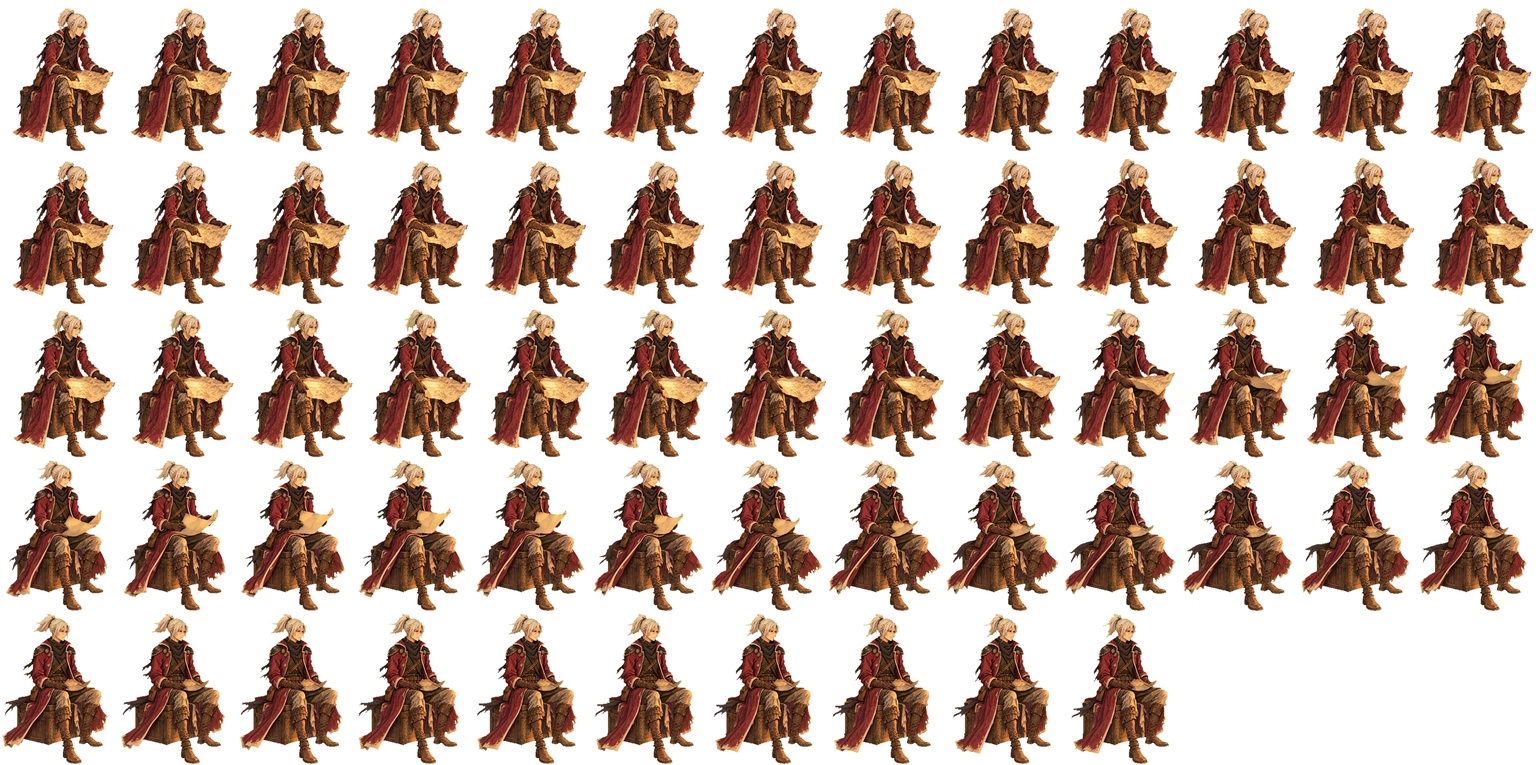
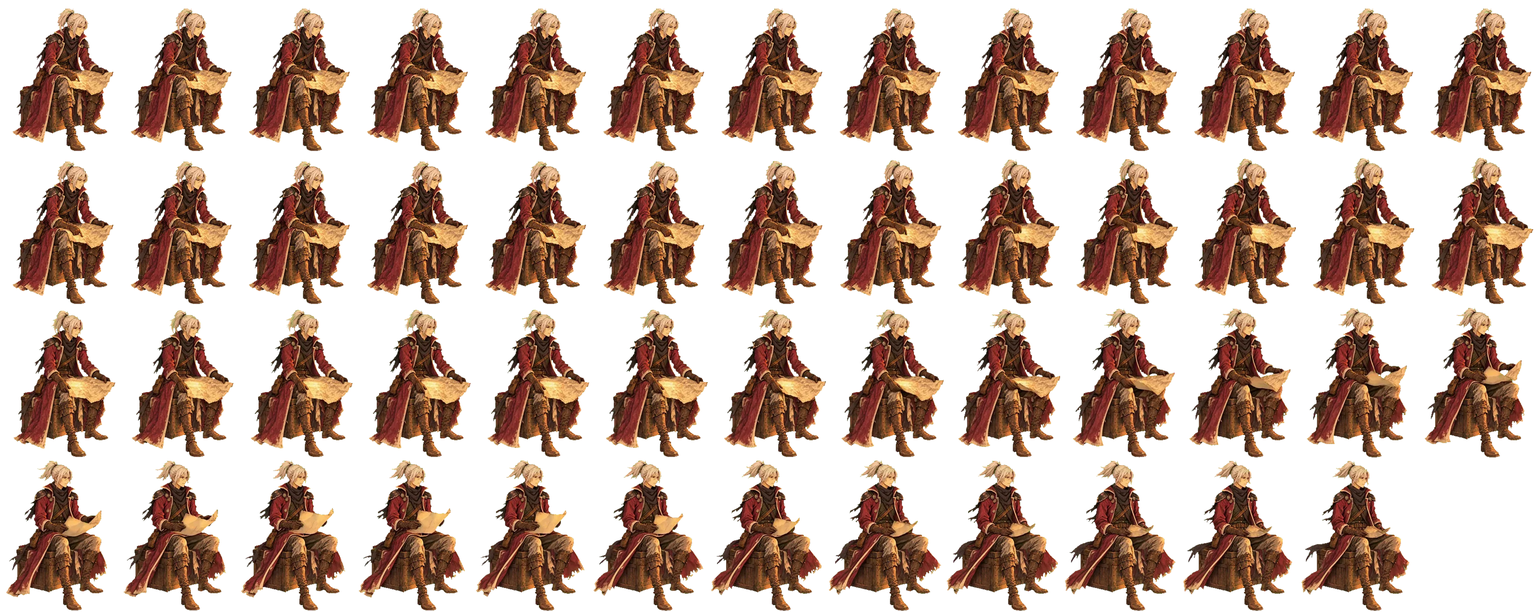
The Night Before: the four clips, figures facing the right way, the shots dressed
MiniMax H3 clips from the characters' own cut-outs (Edric looking up and
across the fire, Edric rising, Sera lowering her eyes, Kira with the map),
trimmed to the drawings the shots use (motion/trim_atlas.py). Edric's cut-outs
face left natively, so they are flipped to face Sera. Close-ups now put the fire
at the frame edge so it lights the face, the Thread sings with the tune, the
drawing's pale fringe becomes ink, and the rise ends in a fast pull back that
lands on the big hit.

Claude-Session: https://claude.ai/code/session_0197BzVXrvNsJbUyZaXgeN4P

diff --git a/tools/cutscene/unwritten/camp_blocking.js b/tools/cutscene/unwritten/camp_blocking.js
@@ -254,7 +254,11 @@ export const CAMERA = {
   // Sera close: from the south-east, so the fire is at the left edge and lights her face
   sera: (lt) => {
     const k = lt / 1.6;
-    return lookAt({ x: mix(1.35, 1.42, k), y: 0.85, z: mix(-1.5, -1.38, k) }, { x: 1.08, y: 0.95, z: 0 }, { focal: 540 });
+    return lookAt(
+      { x: mix(1.35, 1.42, k), y: 0.85, z: mix(-1.5, -1.38, k) },
+      { x: 1.08, y: 0.95, z: 0 },
+      { focal: 540 },
+    );
   },
   // what she sees: the sky, wide and canted, a slow drift along the Thread
   sky: (lt) => {
@@ -268,12 +272,20 @@ export const CAMERA = {
   // Edric from the south-west, close: the fire is at the right edge and lights his face
   edric: (lt) => {
     const k = lt / 1.6;
-    return lookAt({ x: mix(-2.35, -2.15, k), y: 0.9, z: mix(-1.45, -1.3, k) }, { x: -1.65, y: 0.92, z: 0.15 }, { focal: 520 });
+    return lookAt(
+      { x: mix(-2.35, -2.15, k), y: 0.9, z: mix(-1.45, -1.3, k) },
+      { x: -1.65, y: 0.92, z: 0.15 },
+      { focal: 520 },
+    );
   },
   // Kira from the south-east: she faces the fire, so it lights her; a slow push
   kira: (lt) => {
     const k = lt / 1.2;
-    return lookAt({ x: mix(2.45, 2.3, k), y: 1.25, z: mix(0.4, 0.55, k) }, { x: 1.0, y: 1.32, z: 1.75 }, { focal: 560 });
+    return lookAt(
+      { x: mix(2.45, 2.3, k), y: 1.25, z: mix(0.4, 0.55, k) },
+      { x: 1.0, y: 1.32, z: 1.75 },
+      { focal: 560 },
+    );
   },
   // he rises: a low camera close to him that tilts up as he stands, then, on the fill, a fast
   // pull back and up that lands on the big hit: he is small under the Thread
@@ -284,9 +296,19 @@ export const CAMERA = {
       { focal: 350 },
     );
     const far = { x: -0.3, y: 0.95, z: -6.2, yaw: 0.1, pitch: 0.35, roll: 0, focal: 255 };
-    const nearEnd = lookAt({ x: -1.95, y: 0.5, z: -1.85 }, { x: -1.45, y: 1.55, z: 0.15 }, { focal: 350 });
+    const nearEnd = lookAt(
+      { x: -1.95, y: 0.5, z: -1.85 },
+      { x: -1.45, y: 1.55, z: 0.15 },
+      { focal: 350 },
+    );
     if (lt < 1.0) return near;
-    return lerpCam(nearEnd, far, sm(0, 1, (lt - 1.0) / 0.4) ** 0.8);
+    const c = lerpCam(nearEnd, far, sm(0, 1, (lt - 1.0) / 0.4) ** 0.8);
+    // after the hit the camera keeps drifting back, very slowly: the last frame is never frozen
+    return {
+      ...c,
+      z: c.z - 0.12 * Math.max(0, lt - 1.4),
+      pitch: c.pitch + 0.006 * Math.max(0, lt - 1.4),
+    };
   },
 };
 

diff --git a/tools/cutscene/unwritten/engine/camp_world.js b/tools/cutscene/unwritten/engine/camp_world.js
@@ -523,6 +523,24 @@ export class CampWorld {
     this.passInk(frame);
     this.paperGrain(frame);
     this.drawBillboards(frame, cam, B, t, o);
+    this.vignette(frame);
+  }
+
+  /** The page darkens toward its edges (a few percent, so the eye stays on the middle). */
+  vignette(frame) {
+    const { W, H } = this;
+    for (let y = 0; y < H; y++) {
+      const dy = (y + 0.5 - H / 2) / (H / 2);
+      for (let x = 0; x < W; x++) {
+        const dx = (x + 0.5 - W / 2) / (W / 2);
+        const r = Math.sqrt(dx * dx * 0.6 + dy * dy);
+        const k = 1 - 0.2 * smooth(0.62, 1.25, r);
+        const o = (y * W + x) * 4;
+        frame[o] *= k;
+        frame[o + 1] *= k;
+        frame[o + 2] *= k * 1.01;
+      }
+    }
   }
 
   buildCasters(actors) {
@@ -935,6 +953,17 @@ export class CampWorld {
           frame[j] += (222 - frame[j]) * k;
           frame[j + 1] += (170 - frame[j + 1]) * k;
           frame[j + 2] += (78 - frame[j + 2]) * k;
+        }
+      }
+      if (a > 0.9 && bayer(xi + 1, yi + 3) < (a - 0.7) * 1.4) {
+        // a flare: the halo opens to two pixels
+        for (const dy of [-2, 2]) {
+          const yy = yi + dy;
+          if (yy < 0 || yy >= H || !this.sky[yy * W + xi]) continue;
+          const j = (yy * W + xi) * 4;
+          frame[j] += (226 - frame[j]) * 0.32;
+          frame[j + 1] += (176 - frame[j + 1]) * 0.32;
+          frame[j + 2] += (84 - frame[j + 2]) * 0.32;
         }
       }
       if (glow > 0.75 && bayer(xi + 2, yi) < glow - 0.5) {

diff --git a/tools/cutscene/unwritten/camp.js b/tools/cutscene/unwritten/camp.js
@@ -267,8 +267,8 @@ export class CampPiece extends Piece {
       seed: 1,
       breath: 0.011,
       sway: [
-        { u0: 0.0, u1: 0.42, v0: 0.5, v1: 0.98, amp: 0.012, rate: 2.2 },
-        { u0: 0.2, u1: 0.8, v0: 0.0, v1: 0.16, amp: 0.006, rate: 3 },
+        { u0: 1.0, u1: 0.55, v0: 0.4, v1: 0.98, amp: 0.012, rate: 2.2 },
+        { u0: 0.45, u1: 0.1, v0: 0.0, v1: 0.16, amp: 0.006, rate: 3 },
       ],
     };
     const IDLE_S = {
@@ -463,11 +463,10 @@ export class CampPiece extends Piece {
     const lt = t - S.rise[0];
     const i = frameAt(
       [
-        [0, 24],
-        [0.25, 30],
-        [0.85, 46],
-        [1.2, 50],
-        [2, 60],
+        [0, 2],
+        [1.0, 22],
+        [1.3, 26],
+        [2, 36],
       ],
       onN(lt, 2),
     );

diff --git a/tools/cutscene/unwritten/motion/trim_atlas.py b/tools/cutscene/unwritten/motion/trim_atlas.py
@@ -1,0 +1,30 @@
+#!/usr/bin/env python3
+"""Keep drawings a..b (inclusive) of a packed clip atlas, same cells, fewer frames (smaller file).
+
+    python3 tools/cutscene/unwritten/motion/trim_atlas.py camp_edric_rise 24 61
+
+The drawings are renumbered from 0. The cell size, anchor and scale are unchanged, so the
+measured metres-per-pixel stay valid; the first kept drawing is frame 0 in the new atlas.
+"""
+import json, os, sys
+from PIL import Image
+
+HERE = os.path.dirname(os.path.abspath(__file__))
+OUT = os.path.abspath(os.path.join(HERE, '../../../../docs/art-direction/anime-op/motion'))
+
+name, a, b = sys.argv[1], int(sys.argv[2]), int(sys.argv[3])
+meta = json.load(open(f'{OUT}/{name}.json'))
+im = Image.open(f'{OUT}/{name}.webp').convert('RGBA')
+cw, ch = meta['cell']
+cols = meta['cols']
+keep = list(range(a, b + 1))
+rows = (len(keep) + cols - 1) // cols
+new = Image.new('RGBA', (cols * cw, rows * ch), (0, 0, 0, 0))
+for k, f in enumerate(keep):
+    cell = im.crop(((f % cols) * cw, (f // cols) * ch, (f % cols + 1) * cw, (f // cols + 1) * ch))
+    new.paste(cell, ((k % cols) * cw, (k // cols) * ch))
+new.save(f'{OUT}/{name}.webp', 'WEBP', quality=84, alpha_quality=100, method=6)
+meta['frames'] = len(keep)
+meta['trimmed'] = [a, b]
+json.dump(meta, open(f'{OUT}/{name}.json', 'w'), indent=1)
+print(f'{name}: kept {a}..{b} ({len(keep)} drawings), {os.path.getsize(f"{OUT}/{name}.webp") // 1024} KB')
